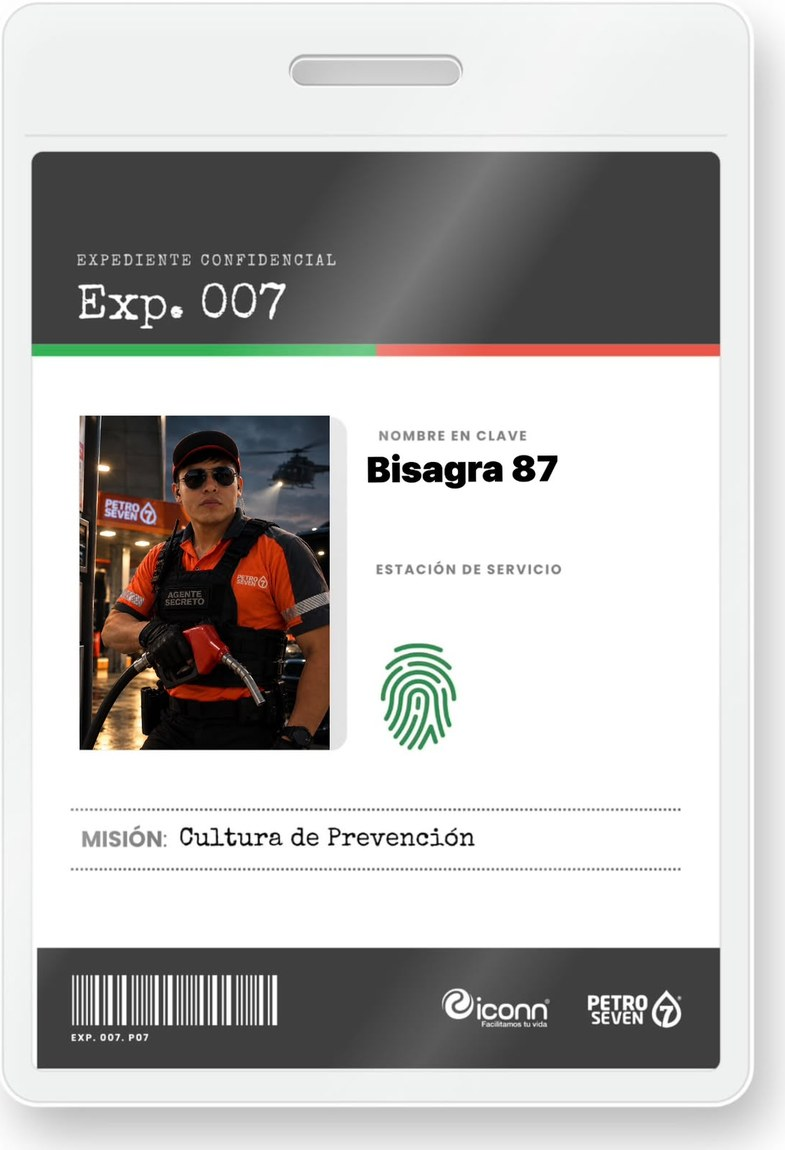
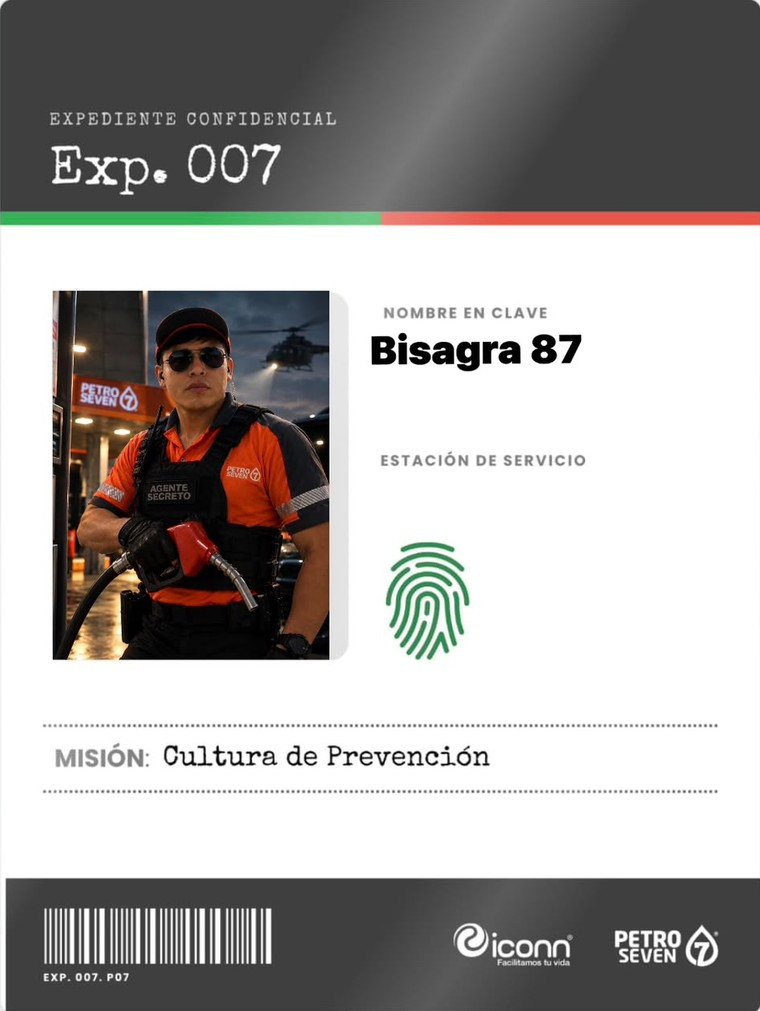
IDs: marcos iguales sin sombras, título centrado y espacio de seguridad abajo
Claude-Session: https://claude.ai/code/session_01DvFJqKrDM1LFJ7GMwDyDfp

diff --git a/index.html b/index.html
@@ -81,21 +81,21 @@
 <div class="ag-nav"><button class="ag-arr ag-n l" aria-label="Anterior"><svg viewBox="0 0 24 24" width="26" height="26"><path d="M15.5 5l-7 7 7 7" fill="none" stroke="currentColor" stroke-width="3" stroke-linecap="round" stroke-linejoin="round"/></svg></button><div class="ag-dots"><button aria-label="Tarjeta 1"></button><button aria-label="Tarjeta 2"></button><button aria-label="Tarjeta 3"></button><button aria-label="Tarjeta 4"></button><button aria-label="Tarjeta 5"></button></div><button class="ag-arr ag-n r" aria-label="Siguiente"><svg viewBox="0 0 24 24" width="26" height="26"><path d="M8.5 5l7 7-7 7" fill="none" stroke="currentColor" stroke-width="3" stroke-linecap="round" stroke-linejoin="round"/></svg></button></div>
 </section>
 <style>
-.ag{margin-bottom:3.8cqw;overflow:hidden;padding-bottom:8cqw!important}
+.cs.ag{margin-bottom:3.8cqw;overflow:hidden;padding-bottom:8cqw!important}
 .ag-tg .a{background:#efc93a!important;color:#173f33!important}.ag-tg .b{background:#f39a1e!important;color:#173f33!important}
 
 .ag-sub{text-align:center;font-size:20px;font-weight:600;line-height:1.45;max-width:640px;margin:-1.2cqw auto 3cqw}
 .ag-stage{position:relative;margin:0 auto;z-index:5;height:min(620px,47cqw)}
 .ag-view{position:absolute;inset:0}
 .ag-k{position:absolute;top:50%;left:50%;width:min(420px,31cqw);transition:transform .55s cubic-bezier(.3,.7,.2,1),opacity .55s,filter .55s;cursor:pointer;
-background:#fff;border-radius:min(16px,1.4cqw);padding:min(8px,.6cqw);box-shadow:0 18px 36px rgba(0,0,0,.3)}
-.ag-k img{width:100%;height:auto;display:block;border-radius:min(10px,.9cqw)}
+background:#fff;border-radius:min(16px,1.4cqw);padding:min(10px,.75cqw);box-shadow:none}
+.ag-k img{width:100%;aspect-ratio:.7514;object-fit:cover;display:block;border-radius:min(10px,.9cqw)}
 .ag-k[data-p="0"]{transform:translate(-50%,-50%) scale(1);z-index:3;opacity:1}
 .ag-k[data-p="-1"]{transform:translate(-50%,-50%) translateX(-86%) scale(.46);z-index:2;opacity:.75;filter:brightness(.85)}
 .ag-k[data-p="1"]{transform:translate(-50%,-50%) translateX(86%) scale(.46);z-index:2;opacity:.75;filter:brightness(.85)}
 .ag-k[data-p="-2"]{transform:translate(-50%,-50%) translateX(-120%) scale(.45);z-index:1;opacity:0}
 .ag-k[data-p="2"]{transform:translate(-50%,-50%) translateX(120%) scale(.45);z-index:1;opacity:0}
-.ag-arr{position:absolute;top:50%;margin-top:-28px;width:56px;height:56px;border-radius:50%;border:0;background:#2f3433;color:#fff;display:grid;place-items:center;padding:0;cursor:pointer;box-shadow:0 6px 12px rgba(0,0,0,.3);z-index:5;transition:background .2s}.ag-arr svg{width:28px;height:28px}
+.ag-arr{position:absolute;top:50%;margin-top:-28px;width:56px;height:56px;border-radius:50%;border:0;background:#2f3433;color:#fff;display:grid;place-items:center;padding:0;cursor:pointer;box-shadow:none;z-index:5;transition:background .2s}.ag-arr svg{width:28px;height:28px}
 .ag-arr.l{left:0}.ag-arr.r{right:0}.ag-arr:hover{background:#e5533d}
 .ag-pj{position:absolute;bottom:0;height:min(860px,63cqw);z-index:6;pointer-events:none;transform-origin:bottom center;-webkit-mask:linear-gradient(#000 70%,transparent 100%);mask:linear-gradient(#000 70%,transparent 100%)}
 .ag-pj.ella{left:1.5cqw;bottom:-27cqw}.ag-pj.el{right:.5cqw;bottom:-27cqw}
@@ -105,7 +105,7 @@ background:#fff;border-radius:min(16px,1.4cqw);padding:min(8px,.6cqw);box-shadow
 .ag-nav .ag-arr{position:static;margin:0;width:58px;height:58px}.ag-nav .ag-arr svg{width:28px;height:28px}.ag-stage>.ag-arr{display:none}
 .ag-dots button{width:10px;height:10px;border-radius:50%;border:0;padding:0;background:rgba(255,255,255,.4);cursor:pointer}
 .ag-dots button.on{background:#e5533d;width:26px;border-radius:6px}
-@media(max-width:640px){.ag-stage>.ag-arr{display:grid}.ag-nav .ag-arr{display:none}.ag-nav{margin-top:4cqw}.ag-sub{font-size:13px;margin:-1cqw 4cqw 4cqw}.ag-stage{height:100cqw}.ag-k{width:56cqw;padding:5px;border-radius:12px}
+@media(max-width:640px){.ag-stage>.ag-arr{display:grid}.ag-nav .ag-arr{display:none}.ag-nav{margin-top:4cqw}.ag-sub{font-size:13px;margin:-1cqw 4cqw 4cqw}.ag-stage{height:100cqw}.ag-k{width:56cqw;padding:6px;border-radius:12px}
 .ag-k[data-p="-1"]{transform:translate(-50%,-50%) translateX(-92%) scale(.42)}.ag-k[data-p="1"]{transform:translate(-50%,-50%) translateX(92%) scale(.42)}
 .ag-arr{width:34px;height:34px;margin-top:-17px}.ag-arr svg{width:17px;height:17px}.ag-arr.l{left:calc(25% - 14.5cqw - 17px)}.ag-arr.r{right:calc(25% - 14.5cqw - 17px)}
 .ag-pj{height:90cqw}.ag-pj.ella{left:-10cqw;bottom:-46cqw}.ag-pj.el{right:-11cqw;bottom:-46cqw}.ag{padding-bottom:30cqw!important}.ag-dots{gap:6px;margin-top:4cqw}.ag-dots button{width:8px;height:8px}.ag-dots button.on{width:20px}}
@@ -120,7 +120,10 @@ r.querySelectorAll('.ag-arr.l').forEach(b=>b.onclick=()=>go(i-1));r.querySelecto
 D.forEach((b,j)=>b.onclick=()=>go(j));K.forEach((k,j)=>k.onclick=()=>{if(j!==i)go(j);});
 let x0=null;const v=r.querySelector('.ag-view');v.addEventListener('touchstart',e=>x0=e.touches[0].clientX,{passive:true});
 v.addEventListener('touchend',e=>{if(x0===null)return;const dx=e.changedTouches[0].clientX-x0;if(Math.abs(dx)>40)go(i+(dx<0?1:-1));x0=null;});
-go(0);})();
+function ctr(){const h=r.querySelector('.cs-h'),tg=r.querySelector('.cs-tg'),sb=r.querySelector('.ag-sub'),st=r.querySelector('.ag-stage'),k=r.querySelector('.ag-k[data-p="0"]');if(!k)return;
+h.style.marginTop='0px';st.style.marginTop='0px';for(let n=0;n<3;n++){const g1=h.getBoundingClientRect().top-tg.getBoundingClientRect().bottom,g2=k.getBoundingClientRect().top-sb.getBoundingClientRect().bottom;
+st.style.marginTop=(parseFloat(st.style.marginTop)+(g1-g2))+'px';}}
+go(0);addEventListener('resize',ctr);addEventListener('load',ctr);r.querySelectorAll('.ag-k img').forEach(m=>m.complete||m.addEventListener('load',ctr));setTimeout(ctr,60);})();
 </script>
 <!-- ===== Fin sección Agentes 007 ===== -->
 <section id="calaveritas" class="cs">
